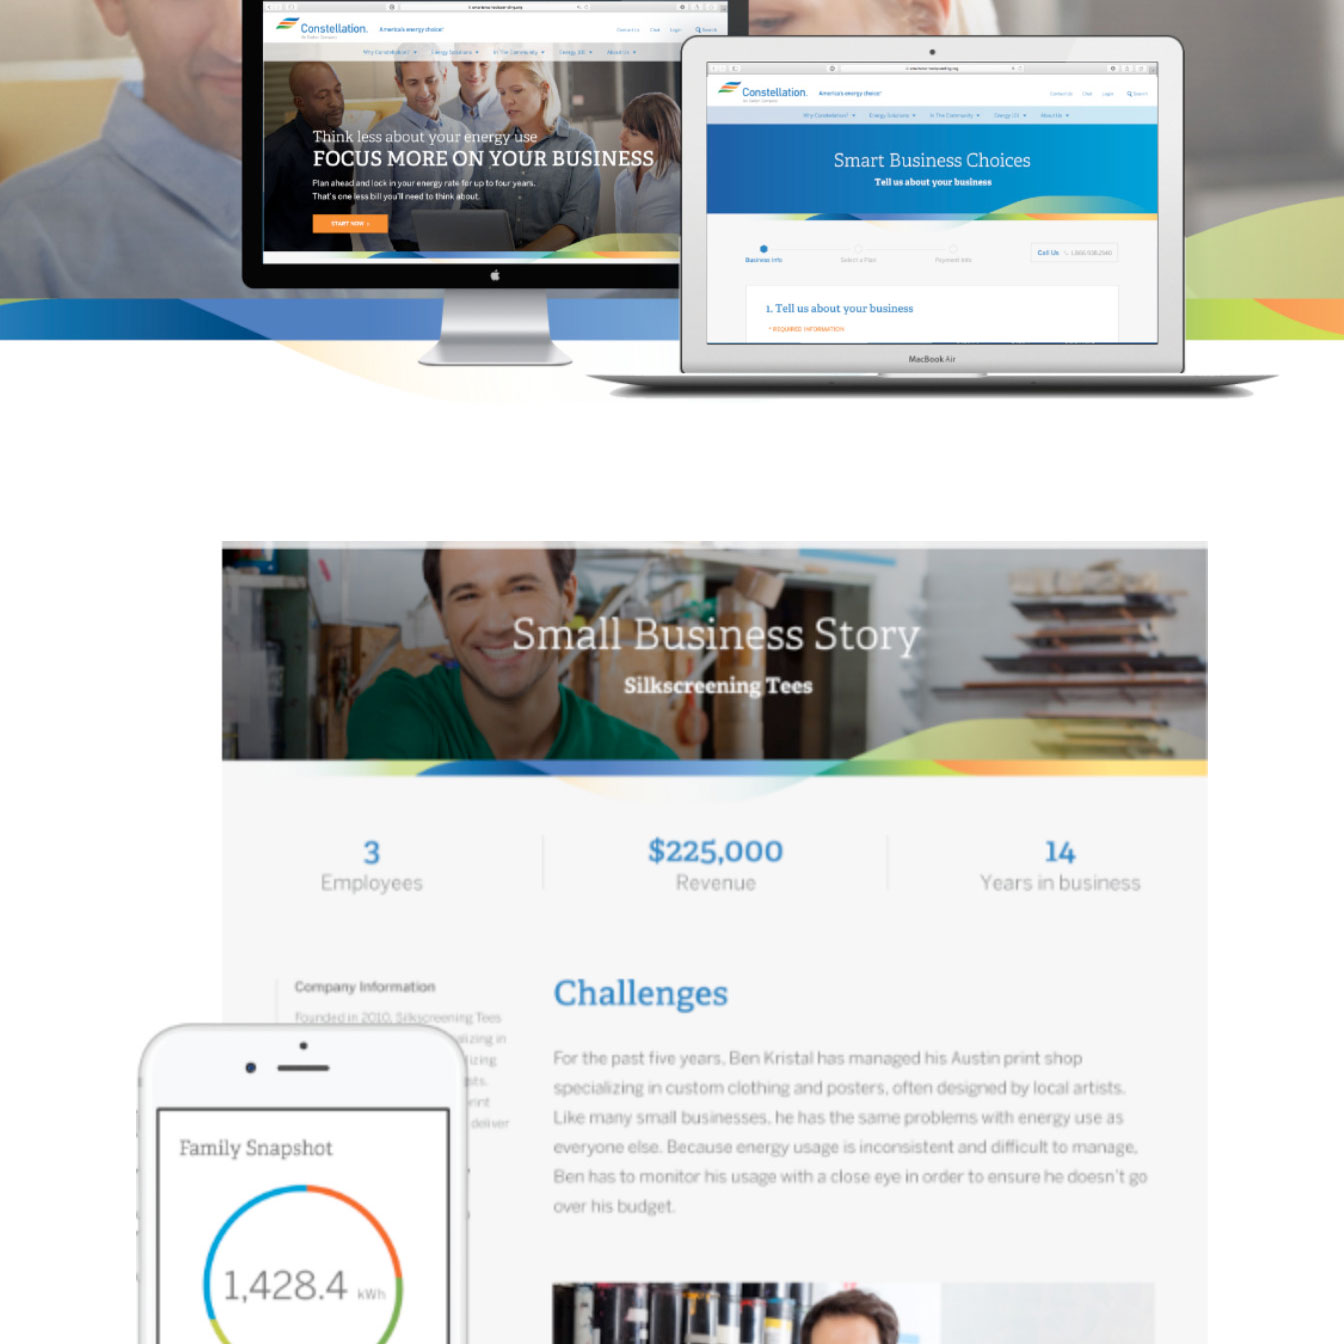
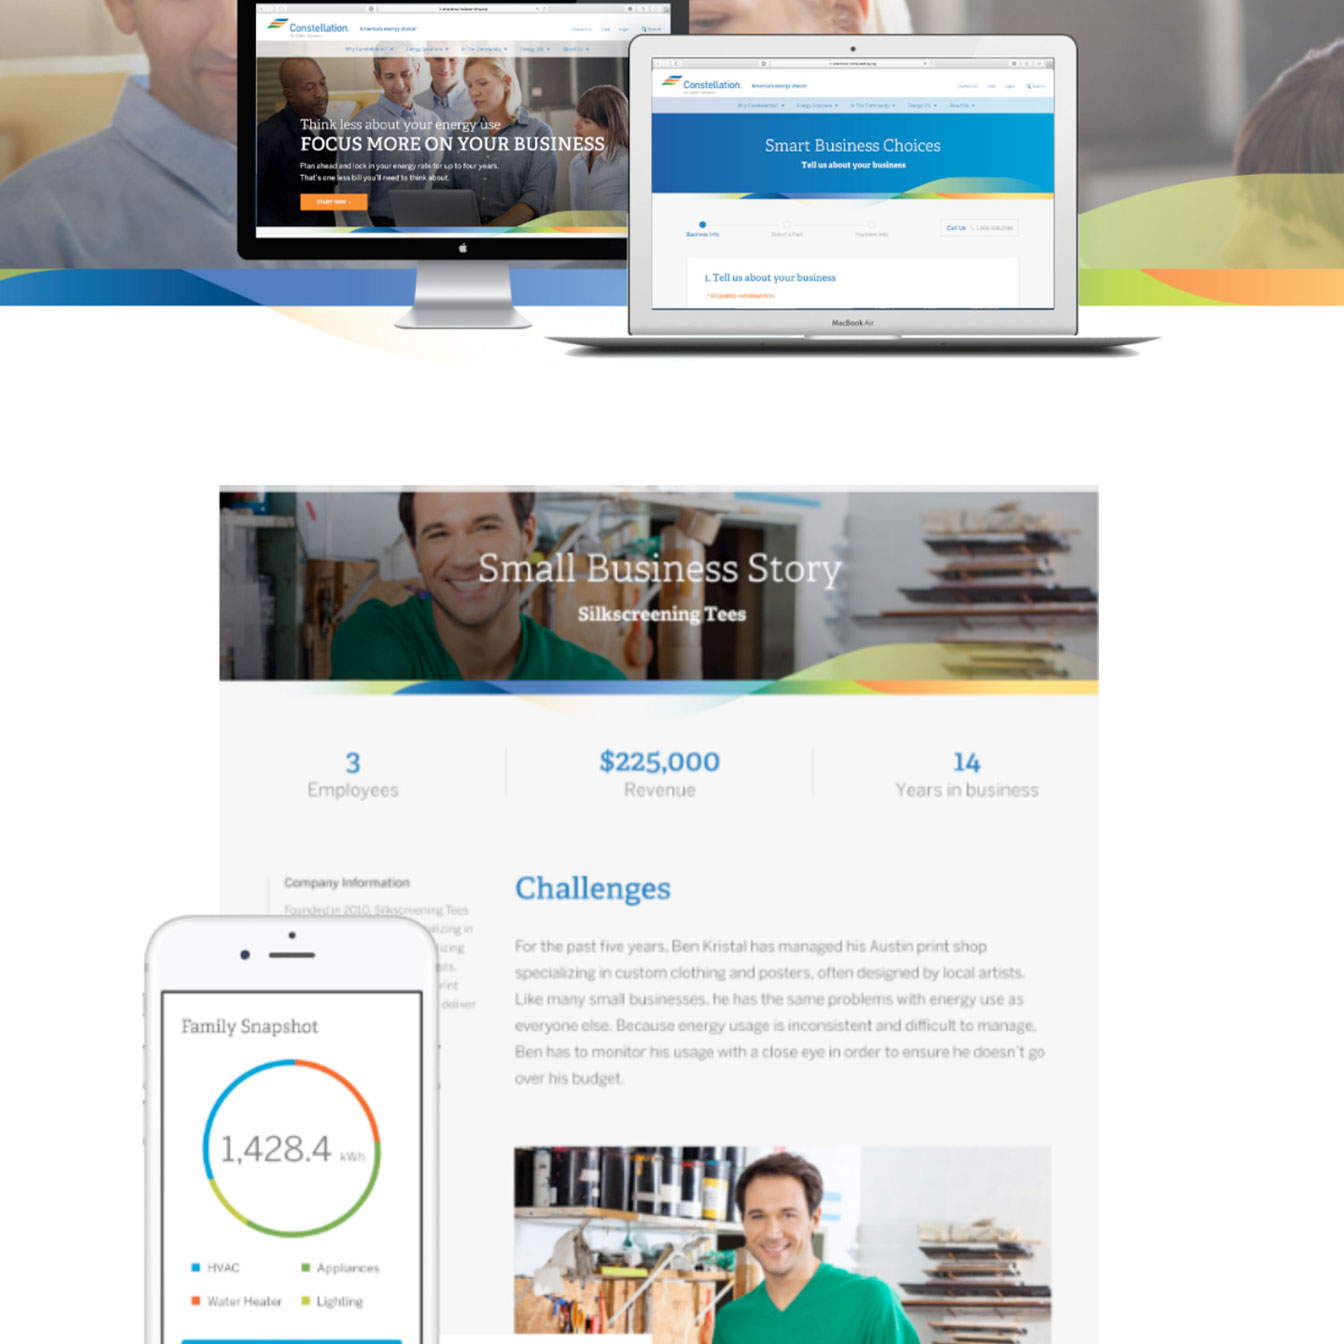
a
a

diff --git a/src/_includes/components/4.html b/src/_includes/components/4.html
@@ -183,7 +183,7 @@
     #RPsbsr-338 .cs-picture2 {
         width: 12.5em;
         height: 12.5em;
-        top: 8.75em;
+        top:5.75em;
         left: -2em;
         animation-name: floatAnimation2;
         animation-duration: 20s;
@@ -274,9 +274,9 @@
             </picture>
             <!--Medium Image-->
             <picture class="cs-picture cs-picture2">
-                <source media="(max-width: 600px)" srcset="/assets/images/1.jpg">
-                <source media="(min-width: 601px)" srcset="/assets/images/1.jpg">
-                <img loading="lazy" decoding="async" src="/assets/images/1.jpg" alt="cleaning supplies" width="300" height="300" aria-hidden="true">
+                <source media="(max-width: 600px)" srcset="/assets/images/3.jpg">
+                <source media="(min-width: 601px)" srcset="/assets/images/3.jpg">
+                <img loading="lazy" decoding="async" src="/assets/images/3.jpg" alt="cleaning supplies" width="300" height="300" aria-hidden="true">
             </picture>
             <!--Small Image-->
             <picture class="cs-picture cs-picture3">
